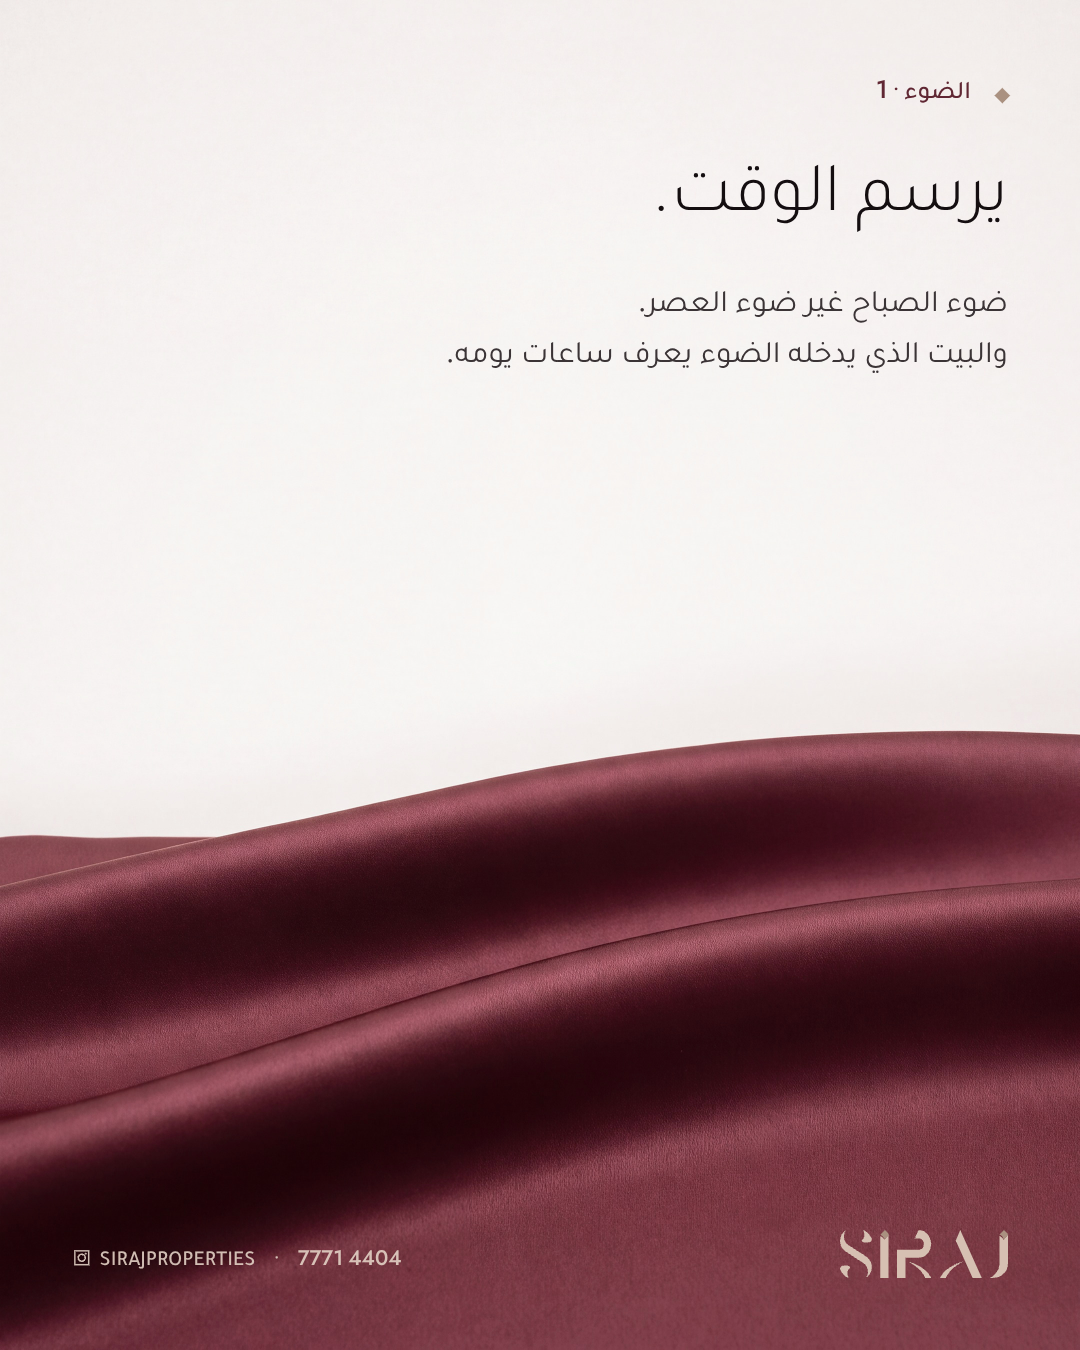
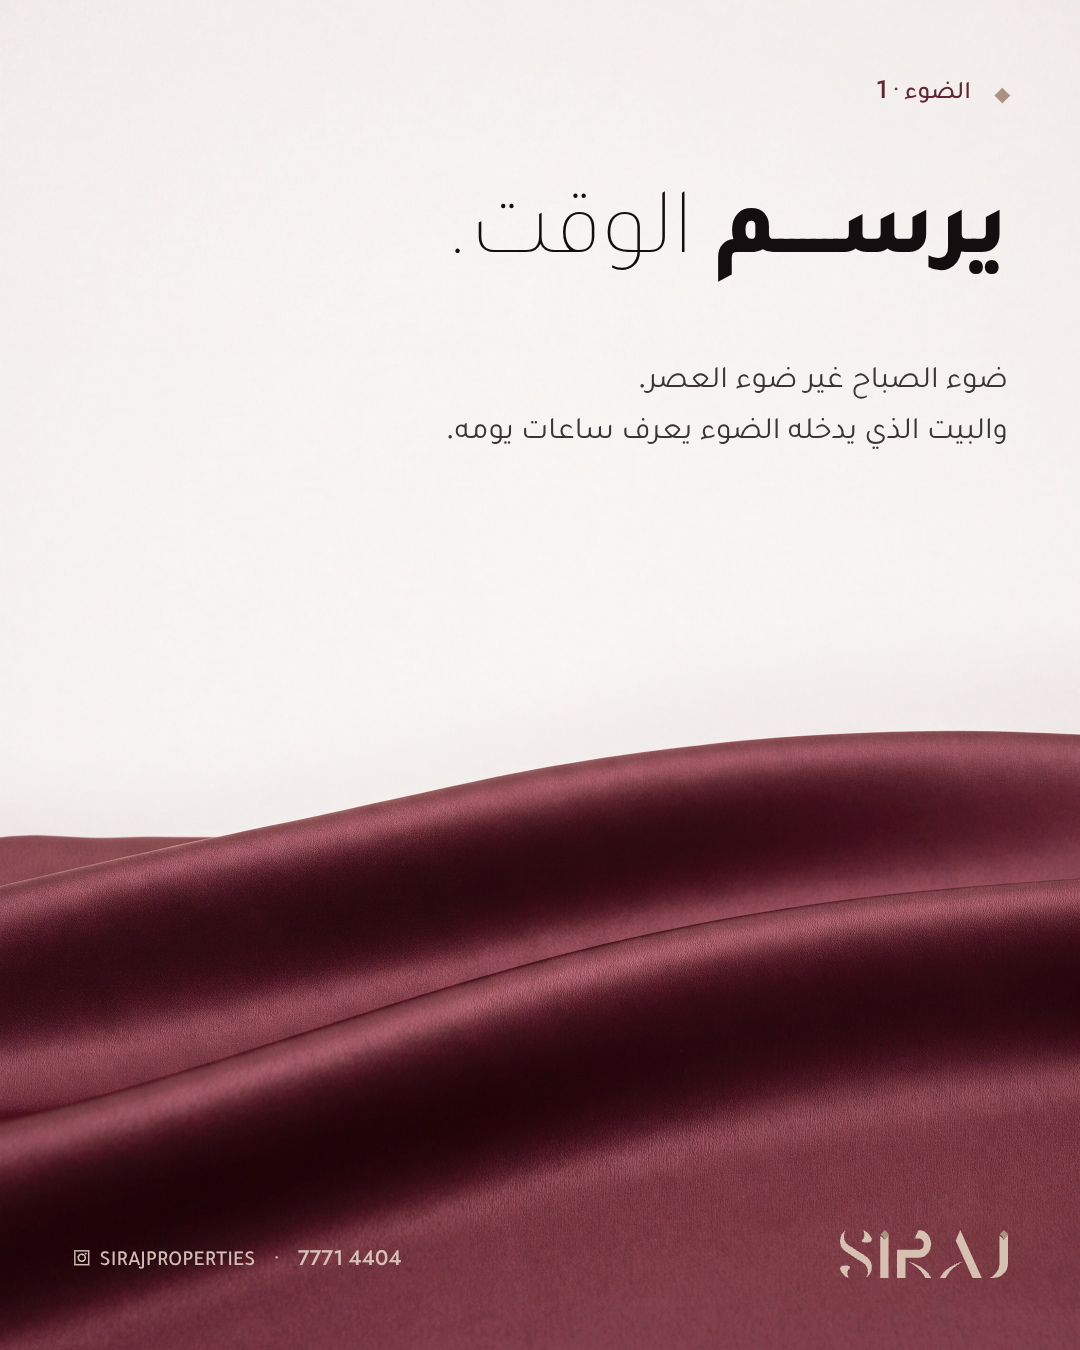
content: heavy Tajawal titles with straight kashida + light phrase (kashida dip cancelled); batch 1 re-rendered
Claude-Session: https://claude.ai/code/session_01G5d21vrCAMaV3pdXweSLCp

Changed region(s): [[0.4889, 0.1244, 0.9472, 0.3422], [0.4278, 0.3111, 0.55, 0.3422], [0.4278, 0.2489, 0.55, 0.28]]

diff --git a/11-Social/Templates/social.js b/11-Social/Templates/social.js
@@ -57,12 +57,10 @@
   }
   // Light inline markup: *text* → <em>, [[x]] → LTR isolate (for handles, phone numbers in Arabic), [ig] → Instagram glyph
   const esc = (s) => s.replace(/&/g, '&amp;').replace(/</g, '&lt;').replace(/>/g, '&gt;');
-  // Display typography (client direction 2026-10-17): [~] = a calligraphic kashida that dips below the baseline and
-  // rejoins the next letter (Tajawal stays the type; the dip is a drawn joining stroke, ZWJ keeps both letters joined);
-  // [-text-] = a light (200) phrase inside a heavy title.
-  const KD = '&zwj;<span class="kd" aria-hidden="true"><svg viewBox="0 0 200 58" preserveAspectRatio="none"><path d="M200,0 C150,0 112,40 72,40 C46,40 26,0 0,0 L0,14 C24,14 44,58 72,58 C114,58 152,14 200,14 Z" fill="currentColor"/></svg></span>&zwj;';
+  // Display typography (client direction 2026-10-17): heavy Tajawal titles (titleHeavy) with a straight kashida (ـ) typed
+  // in the text; [-text-] = a light (200) phrase inside a heavy title. The downward kashida dip was cancelled.
   const rich = (s) => esc(t(s)).replace(/\[\[(.+?)\]\]/g, '<span class="ltr">$1</span>').replace(/\[ig\] ?/g, () => IG_SVG)
-    .replace(/\[~\]/g, KD).replace(/\[-(.+?)-\]/g, '<span class="w2">$1</span>').replace(/\n/g, '<br>');
+    .replace(/\[-(.+?)-\]/g, '<span class="w2">$1</span>').replace(/\n/g, '<br>');
   const IG_SVG = ((window.SIRAJ_BRAND || {}).contact || {}).social_icon_svg || '';
   const px = (el, v) => parseFloat(getComputedStyle(el).getPropertyValue(v));
   const two = (n) => String(n).padStart(2, '0');

diff --git a/11-Social/Templates/social.css b/11-Social/Templates/social.css
@@ -225,8 +225,6 @@ body { width: max-content; }
 [lang="ar"] .details .k, [lang="ar"] .details .v, [lang="ar"] .stats .l { line-height: 1.5; }
 [lang="ar"] .eyebrow { line-height: 1.45; }
 
-/* Display typography (client direction 2026-10-17): heavy Tajawal titles, light phrase, calligraphic kashida dip */
+/* Display typography (client direction 2026-10-17): heavy Tajawal titles with straight kashida, light phrase */
 [lang="ar"] .title.heavy, [lang="ar"] .display.heavy { font-weight: 800; line-height: 1.5; }
 .heavy .w2 { font-weight: 200; }
-.kd { display: inline-block; width: 1.9em; height: 0.58em; vertical-align: -0.44em; line-height: 0; }
-.kd svg { display: block; width: 100%; height: 100%; }

diff --git a/11-Social/Content/2026-10-17_Prelaunch-03_Light-02/source.html b/11-Social/Content/2026-10-17_Prelaunch-03_Light-02/source.html
@@ -11,12 +11,14 @@
   "env": "ivory",
   "ar": {
     "eyebrow": "الضوء · 1",
-    "title": "يرسم الوقت.",
+    "title": "يرســـــم [-الوقت.-]",
     "lead": "ضوء الصباح غير ضوء العصر.\nوالبيت الذي يدخله الضوء يعرف ساعات يومه.",
     "end": "{contact.post_line}"
   },
   "still": "Horizon-Ivory",
   "footOnSilk": true,
+  "titleHeavy": true,
+  "display": true,
   "exports": {
     "post": [
       "ar"

diff --git a/11-Social/Content/2026-10-17_Prelaunch-03_Light-03/source.html b/11-Social/Content/2026-10-17_Prelaunch-03_Light-03/source.html
@@ -11,12 +11,14 @@
   "env": "linen",
   "ar": {
     "eyebrow": "الضوء · 2",
-    "title": "يوسّع المكان.",
+    "title": "يوسّـــــع [-المكان.-]",
     "lead": "الغرفة نفسها تبدو أرحب\nحين يصلها ضوء النهار من الجانب الصحيح.",
     "end": "{contact.post_line}"
   },
   "still": "Horizon-Ivory",
   "footOnSilk": true,
+  "titleHeavy": true,
+  "display": true,
   "exports": {
     "post": [
       "ar"

diff --git a/11-Social/Content/2026-10-17_Prelaunch-03_Light-01/source.html b/11-Social/Content/2026-10-17_Prelaunch-03_Light-01/source.html
@@ -12,10 +12,12 @@
   "still": "Drape-Lumen",
   "ar": {
     "eyebrow": "الضوء",
-    "title": "ماذا يفعل الضوء الطبيعي\nفي البيت؟",
+    "title": "ماذا يفعـــــل الضوء\n[-الطبيعي في البيت؟-]",
     "lead": "خمسة أشياء نعيشها كل يوم،\nولا ننتبه لها.",
     "end": "{contact.post_line}"
   },
+  "titleHeavy": true,
+  "display": false,
   "exports": {
     "post": [
       "ar"

diff --git a/11-Social/Content/2026-10-17_Prelaunch-03_Light-05/source.html b/11-Social/Content/2026-10-17_Prelaunch-03_Light-05/source.html
@@ -11,12 +11,14 @@
   "env": "linen",
   "ar": {
     "eyebrow": "الضوء · 4",
-    "title": "يصنع الظل.",
+    "title": "يصنـــــع [-الظل.-]",
     "lead": "لا يكتمل الضوء إلا بظلّه؛\nوالظل المدروس راحةٌ في نهار مسقط.",
     "end": "{contact.post_line}"
   },
   "still": "Horizon-Ivory",
   "footOnSilk": true,
+  "titleHeavy": true,
+  "display": true,
   "exports": {
     "post": [
       "ar"

diff --git a/11-Social/Content/2026-10-17_Prelaunch-03_Light-04/source.html b/11-Social/Content/2026-10-17_Prelaunch-03_Light-04/source.html
@@ -11,12 +11,14 @@
   "env": "ivory",
   "ar": {
     "eyebrow": "الضوء · 3",
-    "title": "يكشف المادة.",
+    "title": "يكشـــــف [-المادة.-]",
     "lead": "الحجر والخشب والطين\nلا تظهر حقيقتها إلا في ضوء طبيعي.",
     "end": "{contact.post_line}"
   },
   "still": "Horizon-Ivory",
   "footOnSilk": true,
+  "titleHeavy": true,
+  "display": true,
   "exports": {
     "post": [
       "ar"

diff --git a/11-Social/Content/2026-10-17_Prelaunch-03_Light-06/source.html b/11-Social/Content/2026-10-17_Prelaunch-03_Light-06/source.html
@@ -12,10 +12,12 @@
   "still": "Drape-Deep",
   "ar": {
     "eyebrow": "الضوء · 5",
-    "title": "يمنح السكينة.",
+    "title": "يمنـــــح [-السكينة.-]",
     "lead": "ضوءٌ هادئ، وظلٌّ مدروس،\nوبيتٌ يتنفّس.",
     "end": "{contact.post_line}"
   },
+  "titleHeavy": true,
+  "display": true,
   "exports": {
     "post": [
       "ar"

diff --git a/11-Social/Content/2026-10-17_Prelaunch-02_Awwal-Al-Daw/source.html b/11-Social/Content/2026-10-17_Prelaunch-02_Awwal-Al-Daw/source.html
@@ -13,10 +13,11 @@
   "display": true,
   "ar": {
     "eyebrow": "مسقط",
-    "title": "أوّلُ الضوء.",
+    "title": "[-أوّلُ-] الضـــــوء.",
     "lead": "مساكن تتشكّل بالضوء والسكينة.",
     "end": "{contact.post_line}"
   },
+  "titleHeavy": true,
   "exports": {
     "post": [
       "ar"
